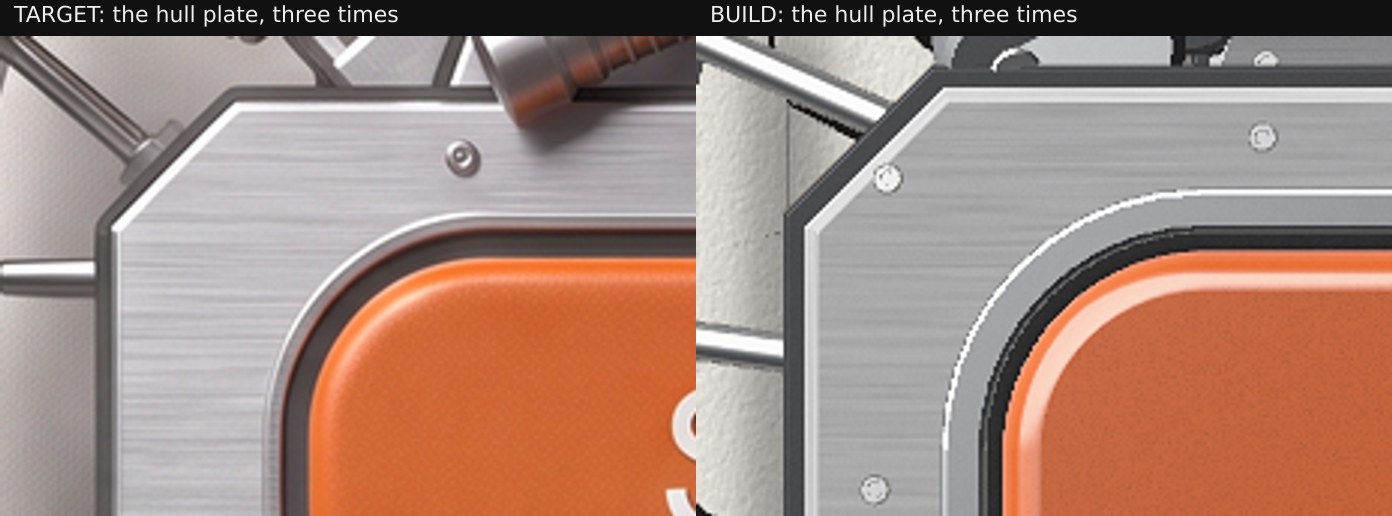
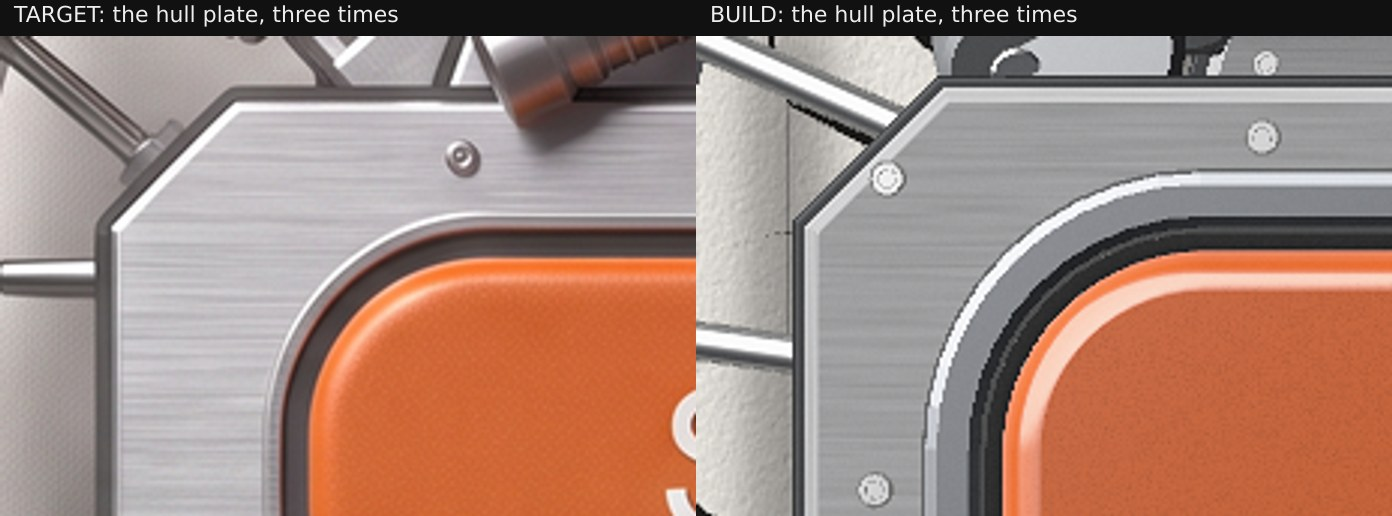
Boss look: darker bezel and legs, glowing window, fist holds the button down, three torn plates left, pale smoke, floor of light in the beam

Changed region(s): [[0.6178, 0.2171, 1.0, 1.0], [0.556, 0.124, 0.7105, 1.0], [0.7414, 0.124, 1.0, 0.155]]

diff --git a/src/boss/look1/pose.ts b/src/boss/look1/pose.ts
@@ -47,14 +47,15 @@ export const WALK = { pitch: 40, band: 0.14, lift: 38, bob: 5 }
 // The fall when he is beaten, as shares of boss.beaten: the cannon leaves, the glass bursts, the body drops on its belly.
 export const FALL = { off: [0, 0.4], glass: [0.05, 0.3], drop: [0.3, 0.7] } as const
 // The finishing blast, as shares of boss.gone: when each part leaves, when the hull comes apart, when the bare button comes down on the ground, when the last pieces land.
-export const GONE = { shield: [0.02, 0.6], wings: [[0.08, 0.7], [0.14, 0.76]], guns: [[0.05, 0.65], [0.1, 0.7]], legs: [[0.2, 0.8], [0.26, 0.86], [0.3, 0.9], [0.36, 0.96]], bay: [0.22, 0.8], hull: [0.28, 0.98], plate: [0.03, 0.5], button: [0.5, 0.9], left: [0.4, 0.92] } as const
+export const GONE = { shield: [0.02, 0.6], wings: [[0.08, 0.7], [0.14, 0.76]], guns: [[0.05, 0.65], [0.1, 0.7]], legs: [[0.2, 0.8], [0.26, 0.86], [0.3, 0.9], [0.36, 0.96]], bay: [0.22, 0.8], hull: [0.28, 0.98], plate: [0.03, 0.5], button: [0.5, 0.9], left: [0.4, 0.92], land: [[0.44, 0.92], [0.5, 0.93], [0.56, 0.95]] } as const
 // How a piece leaves in the blast, in model units: far down the beam, wide to its own side, up from the ground.
 export const FLY = { far: 2700, wide: 1100, least: 0.6, high: 120, burst: [400, 250] }
-// Where the button lies when all else is gone (the fight's FALLEN), level on the page; and what lies about it, page px from its middle: a claw, a bent plate, two bolts.
-export const LEFT = { x: 960, y: 650, slide: [0.02, 0.62], lie: [[-76, 150, 2.5], [150, 72, -0.5], [-78, -104, 0.9], [48, 154, 2.2]] } as const
-// The fist's blow on the button that is left: it goes down in `down` seconds and springs back by `back` to `rest` (0 is all the way up, 1 stays down); `deep` is in model units, `squash` a share of its size.
-export const PRESS = { down: 0.07, back: 0.45, deep: 9, squash: 0.045, rest: 0 }
-// The face of the word as in the approved pictures: lighter and a little smaller than the page's own button (inter-600 at 26 px).
+// Where the button lies when all else is gone (the fight's FALLEN), level on the page; and what lies about it, page px from its middle: a claw, a bent plate, two bolts, and three torn pieces of the hull (which piece, where, its turn), `small` of their size.
+export const LEFT = { x: 960, y: 650, slide: [0.02, 0.92], lie: [[-76, 150, 2.5], [150, 72, -0.5], [-78, -104, 0.9], [-24, 116, 2.2]], plates: [[1, 66, -118, 0.5], [3, 214, -34, -0.9], [5, 112, 168, 1.4]], small: 0.62 } as const
+// The fist on the button that is left: it goes down in `down` seconds and stays down while the fist is on it; when the fist leaves it springs back in `back` seconds with a small overshoot. `deep` is in model units, `squash` a share of its size.
+export const PRESS = { down: 0.07, back: 0.38, deep: 9, squash: 0.045 }
+// The floor of light his parts keep inside the beam, as a share of their own colour: a tilted plate stays light grey.
+export const BEAMLIT = 0.34
 export const WORD = { font: 'inter-400', px: 25 }
 export const BENT = { yaw: 0.26, droop: 0.2 }
 export const TIMES = { form: 2.9, turret: 1.6, beaten: 1, gone: 2.13, gunKick: 0.25, glance: 0.3, hit: 0.35, heal: 0.6, beam: 0.3, recoil: 0.45, after: 1.2, weak: 1.2 }
@@ -90,7 +91,10 @@ export interface Pose {
   away: { shield: number; wings: [number, number]; guns: [number, number]; legs: [number, number, number, number]; bay: number; hull: number; plates: number[] }
   // The pieces that stay: 0 in the body, 1 lying where they are left.
   left: number
-  // 0 to 1: how far the button is down under the fist; a little below 0 on the spring back.
+  // The three pieces of the hull that stay: 0 on the body, 1 lying flat where they are left. And how much of the beam's light is on his parts, 0 to 1.
+  landed: number[]
+  lit: number
+  // 0 to 1: how far the button is down under the fist; a little below 0 on the spring back when the fist leaves.
   press: number
   blow: [number, number]
   // The middle of the word on the button, page px and height, and the turn of the button on the page.
@@ -162,8 +166,8 @@ export function poseOf(view: BossView, o: LookOptions = DEFAULTS): Pose {
   const f = clamp01(b.form)
   const t = clamp01(b.turret)
   const beaten = clamp01(b.beaten)
-  // Beaten, he is thrown to where the button will lie, and turned level: the blast is aimed there.
-  const slide = prog(beaten, LEFT.slide[0], LEFT.slide[1])
+  // Beaten, he is thrown to where the button will lie and skids to rest there, turned level: the blast is aimed there.
+  const slide = outCubic(lin(beaten, LEFT.slide[0], LEFT.slide[1]))
   const turn = Math.atan2(Math.sin(Math.PI - b.heading), Math.cos(Math.PI - b.heading))
   const yaw = -b.heading - turn * slide
   const wx = mix(b.x, LEFT.x, slide) - 960
@@ -248,8 +252,11 @@ export function poseOf(view: BossView, o: LookOptions = DEFAULTS): Pose {
     const down = lin(gone, GONE.button[0], GONE.button[1])
     buttonZ = mix(buttonZ, -body.z, down * down) 
   }
-  const pressAge = since(now, b.pressedAt ?? null)
-  const fist = pressAge < 0 ? 0 : pressAge < PRESS.down ? pressAge / PRESS.down : 1 - (1 - PRESS.rest) * outBack(lin(pressAge, PRESS.down, PRESS.back), 2.4)
+  // The fist is on the button from boss.pressedAt for as long as that is set; boss.releasedAt, if the view carries it, is the moment the fist leaves.
+  const upAt = (b as { releasedAt?: number | null }).releasedAt ?? null
+  const downAge = since(now, b.pressedAt ?? null)
+  const upAge = since(now, upAt)
+  const fist = downAge < 0 ? 0 : upAge >= 0 ? 1 - outBack(lin(upAge, 0, PRESS.back), 2.4) : clamp01(downAge / PRESS.down)
   buttonZ -= PRESS.deep * fist
   const span = (r: readonly [number, number]): number => lin(gone, r[0], r[1])
   const away = {
@@ -319,7 +326,7 @@ export function poseOf(view: BossView, o: LookOptions = DEFAULTS): Pose {
     guns, legs, cannon,
     weak: b.weak ? (b.weak.shownAt === null ? 0 : 2.2 + 3 * (0.5 + 0.5 * Math.sin((now - b.weak.shownAt) * 16))) : 0,
     weakOpen: b.weak && b.weak.shownAt !== null && beaten <= 0 ? smooth(lin(now - b.weak.shownAt, 0, 0.18)) : 0,
-    damage: f < 1 ? 0 : beaten > 0.02 ? 3 : b.stage, hurt, heal: healNow, sag: sagPart, gone, away, left: span(GONE.left), press: fist, blow, lockAge, word
+    damage: f < 1 ? 0 : beaten > 0.02 ? 3 : b.stage, hurt, heal: healNow, sag: sagPart, gone, away, left: span(GONE.left), landed: GONE.land.map((r) => span(r)), lit: gone > 0 && gone < 1 ? smooth(lin(gone, 0, 0.06)) * (1 - smooth(lin(gone, 0.9, 1))) : 0, press: fist, blow, lockAge, word
   }
 }
 

diff --git a/src/boss/look1/model.ts b/src/boss/look1/model.ts
@@ -53,18 +53,18 @@ const screwsAt = (at: [number, number][], z: number, r = 6.5, seed = 1): THREE.B
 
 function hullGeo(): { plate: THREE.BufferGeometry; dark: THREE.BufferGeometry; trim: THREE.BufferGeometry; bed: THREE.BufferGeometry; pins: THREE.BufferGeometry; joints: THREE.BufferGeometry } {
   const { hx, hy, c, top, tall, belly } = HULL
-  const bezelOut = pillOutline(BTN.w + 40, BTN.h + 40, BTN.r + 18)
+  const bezelOut = pillOutline(BTN.w + 52, BTN.h + 52, BTN.r + 24)
   const bezelIn = pillOutline(BTN.w + 12, BTN.h + 12, BTN.r + 5)
   const plate = chamfer(oct(hx, hy, c), top - tall, top, 5, 5)
   const dark = joined([
-    plateAt(oct(hx + 7, hy + 7, c + 3), top - tall - 3, top - 6, 2),
+    plateAt(oct(hx + 4, hy + 4, c + 2), top - tall - 3, top - 6, 2),
     plateAt(oct(hx - 16, hy - 14, c - 6), belly, top - tall + 1, 5),
     plateAt(oct(hx - 60, hy - 40, 20), belly - 22, belly + 1, 5)
   ])
-  const trim = ringPlate(bezelOut, bezelIn, 7, 2.2).translate(0, 0, top - 0.5)
+  const trim = ringPlate(bezelOut, bezelIn, 8, 5).translate(0, 0, top - 0.5)
   const bed = plateAt(pillOutline(BTN.w + 14, BTN.h + 14, BTN.r + 6), top - 0.4, top + 2, 0.5)
   const sc: [number, number][] = [[-268, -98], [268, -98], [-268, 98], [268, 98], [-150, -111], [150, -111], [-150, 111], [150, 111], [0, -111], [0, 111], [-272, 0], [272, 0]]
-  const pins = screwsAt(sc, top, 4.8, 3)
+  const pins = screwsAt(sc, top, 5.8, 3)
   const joints = joined(HIPS.map(([x, y]) => discAt(30, x * 1.0, y * 0.92, LEG.hipZ - 26, LEG.hipZ + 24, 4)))
   return { plate, dark, trim, bed, pins, joints }
 }
@@ -117,11 +117,11 @@ function legGeo(): { upper: Record<string, THREE.BufferGeometry>; lower: Record<
     }
   }
   const upper = {
-    ...link(A, 43, 20),
+    ...link(A, 50, 22),
     orange: joined([hose([[10, -12, 6], [A * 0.3, -17, 15], [A * 0.62, 15, 15], [A - 12, 12, 6]], 4.2, 20, 7), hose([[14, 13, 4], [A * 0.3, 17, 11], [A * 0.58, -15, 11], [A - 16, -12, 4]], 3.6, 20, 7)])
   }
   const lower = {
-    ...link(B, 38, 18),
+    ...link(B, 44, 20),
     orange: joined([hose([[12, 11, 5], [B * 0.3, 15, 13], [B * 0.6, -13, 12], [B - 18, -10, 5]], 3.8, 20, 7)])
   }
   // A claw of two short thick hooks: each leaves the ankle high, turns inward at its knuckle and sinks its tip into the ground.
@@ -150,16 +150,16 @@ function cannonGeo(): Record<string, THREE.BufferGeometry> {
     boxAt(-30, -26, -22, b0 - 4, 26, 22, 5)
   ])
   const breechDark = joined([
-    ringPlate([[b0 + 109, -51], [b0 + 209, -51], [b0 + 209, 51], [b0 + 109, 51]], [[b0 + 123, -37], [b0 + 195, -37], [b0 + 195, 37], [b0 + 123, 37]], 5, 1).translate(0, 0, r.breech + 8),
+    ringPlate(pillOutline(92, 92, 16, 5).map(([x, y]) => [x + b0 + 160, y] as [number, number]), pillOutline(72, 72, 10, 5).map(([x, y]) => [x + b0 + 160, y] as [number, number]), 5, 1.5).translate(0, 0, r.breech + 8),
     along([[r.breech + 0.6, b0 + 38], [r.breech + 2.5, b0 + 40], [r.breech + 2.5, b0 + 50], [r.breech + 0.6, b0 + 52]], 40),
     along([[r.breech + 0.6, b1 - 64], [r.breech + 2.5, b1 - 62], [r.breech + 2.5, b1 - 52], [r.breech + 0.6, b1 - 50]], 40)
   ])
-  const window = new THREE.PlaneGeometry(60, 60, 10, 10).translate(b0 + 160, 0, r.breech + 11)
+  const window = new THREE.PlaneGeometry(72, 72, 12, 12).translate(b0 + 160, 0, r.breech + 11)
   {
     const pos = window.getAttribute('position')
     const col = new Float32Array(pos.count * 3)
     for (let i = 0; i < pos.count; i++) {
-      const d = Math.min(1, Math.hypot(pos.getX(i) - b0 - 160, pos.getY(i)) / 40)
+      const d = Math.min(1, Math.hypot(pos.getX(i) - b0 - 160, pos.getY(i)) / 46)
       const k = (1 - d * d) * (1 - d * d)
       col.set([0.5 + 2.2 * k, 0.4 + 4.6 * k, 0.3 + 16 * k], i * 3)
     }
@@ -327,7 +327,7 @@ export function buildModel(): Model {
   heat.depthWrite = false
   root.add(mesh(cg, kit.steel), mesh(c('breechDark'), kit.bed), mesh(c('window'), window, false, false), mesh(c('slit'), slits, false, false), mesh(c('yoke'), kit.joint), mesh(c('hoses'), kit.orange))
   const ribs = new THREE.Group()
-  ribs.add(mesh(c('ribCore'), kit.dark), mesh(c('ribs'), kit.orange))
+  ribs.add(mesh(c('ribCore'), kit.steel), mesh(c('ribs'), kit.orange))
   const sleeve = new THREE.Group()
   sleeve.add(mesh(c('sleeve'), kit.steel))
   const barrel = new THREE.Group()

diff --git a/src/boss/look1/index.ts b/src/boss/look1/index.ts
@@ -3,9 +3,9 @@ import type { BossView } from '../view'
 import type { Emitter } from '../../real/types'
 import { buildModel, type Model } from './model'
 import { CANNON, GUN, HATCH, SHIELD, WING, HULL } from './numbers'
-import { BENT, DEFAULTS, FLY, K, LEFT, clamp01, poseOf, type LookOptions, type Pose } from './pose'
+import { BEAMLIT, BENT, DEFAULTS, FLY, K, LEFT, clamp01, poseOf, type LookOptions, type Pose } from './pose'
 import { hash01 } from '../../core/random'
-import { setGlow } from './kit'
+import { lookKit, setGlow } from './kit'
 import { makeFx, type Fx } from './fx'
 import { poseGun } from './gun'
 import { makeShade } from './shade'
@@ -152,6 +152,24 @@ function apply(m: Model, legsRoot: THREE.Group, p: Pose): void {
         q.g.visible = true
         q.g.position.set(q.at[0] + p.hull.x, q.at[1] + p.hull.y, q.at[2] + p.hull.z)
         q.g.rotation.set(0, 0, 0)
+        q.g.scale.setScalar(1)
+        q.g.children[1]!.visible = true
+        const stay = LEFT.plates.findIndex((l) => l[0] === i)
+        if (stay >= 0) {
+          const lie = LEFT.plates[stay]!
+          const u = p.landed[stay]!
+          const e = 1 - (1 - u) * (1 - u)
+          const tx = (lie[1] * cyaw + lie[2] * syaw) / K
+          const ty = (lie[1] * syaw - lie[2] * cyaw) / K
+          const h = (n: number): number => hash01(40 + i, n, 77) - 0.5
+          q.g.children[1]!.visible = u <= 0
+          q.g.position.x += (tx - q.at[0]) * e
+          q.g.position.y += (ty - q.at[1]) * e
+          q.g.position.z += (HULL.tall / 2 + 1 - p.body.z - q.g.position.z) * e + 260 * 4 * u * (1 - u) * (1 - u)
+          q.g.rotation.set(h(3) * 9 * (1 - e), h(4) * 8 * (1 - e), (lie[3] - p.body.yaw) * e + h(5) * 5 * (1 - e) * e)
+          q.g.scale.setScalar(1 - (1 - LEFT.small) * e)
+          return
+        }
         const k = p.away.plates[i]!
         const jump = 1 - Math.pow(1 - Math.min(1, k * 3), 3)
         const d = Math.hypot(q.at[0], q.at[1]) || 1
@@ -218,6 +236,8 @@ export function makeBoss(ctx: BossLookContext = {}): BossLook {
   for (const g of [model.hull, model.bay, model.hatch, model.shield, ...model.wings, model.cannon.barrel, ...model.legs.flatMap((l) => [l.upper, l.lower, l.foot])]) g.traverse((c) => { c.castShadow = false })
   model.button.traverse((c) => { c.castShadow = true })
   object.add(figure)
+  const kit = lookKit()
+  const lit = [kit.hull, kit.wing, kit.hatch, kit.bezel, kit.steel, kit.gunBody, kit.gunBase, kit.plateLight, kit.limb, kit.dark, kit.joint, kit.pin, kit.plate]
   const fx: Fx = makeFx(o, ctx.level ?? null)
   object.add(fx.object)
   const pose = (view: BossView, _dt: number, light?: (e: Emitter) => void): void => {
@@ -225,6 +245,7 @@ export function makeBoss(ctx: BossLookContext = {}): BossLook {
     figure.visible = p.shown
     figure.position.set(p.x, p.y, 0)
     if (p.shown) { apply(model, figure, p); shade.pose(p) }
+    for (const mat of lit) mat.emissive.copy(mat.color).multiplyScalar(p.shown ? BEAMLIT * p.lit : 0)
     fx.pose(view, p, light)
   }
   const dispose = (): void => {

diff --git a/src/boss/look1/fx.ts b/src/boss/look1/fx.ts
@@ -205,13 +205,13 @@ export function makeFx(o: LookOptions, level0: Level): Fx {
   ground.add(socket)
   const hx = o.home.x - 960
   const hy = 540 - o.home.y
-  const landCracks = mesh(crackStar(o.seed + 2, 12, (a) => [Math.cos(a) * 96, Math.sin(a) * 52], 120, 2.2), kit.crack, false, false)
+  const landCracks = mesh(crackStar(o.seed + 2, 10, (a) => [Math.cos(a) * 70, Math.sin(a) * 34], 44, 2), kit.crack, false, false)
   landCracks.position.set(hx, hy, 0.25)
   ground.add(landCracks)
   const footCracks = FEET.map(([fx, fy], i) => {
     const c = Math.cos(-o.home.heading)
     const s = Math.sin(-o.home.heading)
-    const m = mesh(crackStar(o.seed + 10 + i, 9, (a) => [Math.cos(a) * 15, Math.sin(a) * 15], 54, 1.3), kit.crack, false, false)
+    const m = mesh(crackStar(o.seed + 10 + i, 9, (a) => [Math.cos(a) * 15, Math.sin(a) * 15], 42, 1.9), kit.crack, false, false)
     m.position.set(hx + (fx * c - fy * s) * K, hy + (fx * s + fy * c) * K, 0.25)
     ground.add(m)
     return m
@@ -566,7 +566,7 @@ export function makeFx(o: LookOptions, level0: Level): Fx {
       const count = n.chunks * 3
       const [ux, uy] = p.blow
       for (let i = 0; i < count; i++) {
-        const a = age - (0.03 + 0.85 * (i / count)) * TIMES.gone
+        const a = age - (0.03 + 0.9 * (i / count)) * TIMES.gone
         if (a < 0 || a >= SCRAP.life) continue
         const u = a / SCRAP.life
         const side = (rnd(i, 81) < 0.5 ? -1 : 1) * (0.3 + 0.9 * rnd(i, 82))
@@ -580,10 +580,10 @@ export function makeFx(o: LookOptions, level0: Level): Fx {
       const rise = smooth(lin(p.gone, GONE.button[1], 1))
       const sx3 = p.x + 22
       const sy3 = p.y + 14
-      plume(sx3, sy3, 30, now, 0.1, 3.6, 41, 26, SMOKE, 0.36 * rise, 8, 36)
-      plume(sx3 - 26, sy3 + 4, 30, now + 0.7, 0.17, 2.8, 42, 18, SMOKE, 0.3 * rise, 3, 30)
+      plume(sx3, sy3, 30, now, 0.07, 3.8, 41, 20, STEAM, 0.5 * rise, 9, 36)
+      plume(sx3 - 22, sy3 + 2, 30, now + 0.7, 0.11, 3.2, 42, 15, STEAM, 0.38 * rise, 5, 32)
       const lie = LEFT.lie[0]
-      plume(p.x + lie[0], p.y - lie[1], 20, now + 0.3, 0.3, 1.8, 43, 11, SMOKE, 0.3 * rise, 4, 20)
+      plume(p.x + lie[0], p.y - lie[1], 20, now + 0.3, 0.2, 2, 43, 10, STEAM, 0.3 * rise, 4, 22)
     }
 
     // Beaten: the cannon is blown off, the glass bursts, he smokes.

diff --git a/src/boss/look1/kit.ts b/src/boss/look1/kit.ts
@@ -291,19 +291,19 @@ export function lookKit(): LookKit {
   if (look) return look
   const b = bossKit()
   const m = materials()
-  const plateLight = new THREE.MeshPhysicalMaterial({ color: srgb(0x84888d), roughness: 0.56, metalness: 0.3, specularIntensity: 0.5 })
+  const plateLight = new THREE.MeshPhysicalMaterial({ color: srgb(0x6e7277), roughness: 0.54, metalness: 0.35, specularIntensity: 0.5 })
   const brushed = (hex: number, metal: number, rough = 0.46): THREE.MeshPhysicalMaterial => { const c = b.plate.clone(); c.color = srgb(hex); c.metalness = metal; c.roughness = rough; return studio(c) }
   look = {
-    hull: brushed(0xa8abaf, 0.35, 0.52),
+    hull: brushed(0x9c9fa3, 0.35, 0.52),
     wing: brushed(0x8f9296, 0.3, 0.55),
     hatch: brushed(0x8a8e94, 0.6, 0.44),
-    bezel: studio(new THREE.MeshPhysicalMaterial({ color: srgb(0x8d9196), roughness: 0.26, metalness: 0.8 })),
+    bezel: studio(new THREE.MeshPhysicalMaterial({ color: srgb(0x70747a), roughness: 0.3, metalness: 0.85 })),
     steel: studio(new THREE.MeshPhysicalMaterial({ color: srgb(0xaeb1b5), roughness: 0.46, metalness: 0.5, specularIntensity: 0.6 })),
     gunBody: studio(new THREE.MeshPhysicalMaterial({ color: srgb(0x90949a), roughness: 0.5, metalness: 0.45, specularIntensity: 0.6 })),
     gunBase: studio(new THREE.MeshPhysicalMaterial({ color: srgb(0xb4b7bb), roughness: 0.42, metalness: 0.5, specularIntensity: 0.6 })),
     plate: b.plate,
     plateLight: studio(plateLight),
-    limb: studio(new THREE.MeshPhysicalMaterial({ color: srgb(0x9a9ea3), roughness: 0.5, metalness: 0.55, specularIntensity: 0.6 })),
+    limb: studio(new THREE.MeshPhysicalMaterial({ color: srgb(0x868a8f), roughness: 0.5, metalness: 0.55, specularIntensity: 0.6 })),
     dark: b.plateSide,
     housing: b.housing,
     joint: b.joint,

diff --git a/tests/bosslook-pose.test.ts b/tests/bosslook-pose.test.ts
@@ -179,17 +179,20 @@ describe('look 1: the finishing blast', () => {
     expect(Math.cos(at.rot)).toBeCloseTo(1, 5)
   })
 
-  it('sinks the button under the fist in 0.07 s and has it back by 0.45 s', () => {
+  it('keeps the button down while the fist is on it and springs it back only when the fist leaves', () => {
     const lying = { turret: 1, locked: true, stage: 2 as const, health: 0, beaten: 1, gone: 1 }
-    const at = (age: number): ReturnType<typeof buttonAt> => buttonAt(view({ phase: 'beaten', time: 60 + age }, { ...lying, pressedAt: 60 }))
+    const at = (age: number, more: object = {}): ReturnType<typeof buttonAt> => buttonAt(view({ phase: 'beaten', time: 60 + age }, { ...lying, pressedAt: 60, ...more }))
     expect(buttonAt(view({ phase: 'beaten', time: 59.9 }, { ...lying, pressedAt: null })).press).toBe(0)
     expect(at(0).press).toBe(0)
     expect(at(PRESS.down).press).toBeCloseTo(1, 5)
     expect(at(PRESS.down).top).toBeLessThan(at(0).top)
     expect(at(PRESS.down).w).toBeLessThan(at(0).w)
-    expect(at(PRESS.back).press).toBeCloseTo(0, 5)
-    expect(at(2).press).toBeCloseTo(0, 5)
-    expect(at(2).top).toBeCloseTo(at(0).top, 5)
+    for (const age of [0.2, 0.45, 2, 30]) expect(at(age).press, `${age}`).toBe(1)
+    const left = { releasedAt: 61 }
+    expect(at(0.9, left).press).toBe(1)
+    expect(at(1 + PRESS.back * 0.6, left).press).toBeLessThan(0)
+    expect(at(1 + PRESS.back, left).press).toBeCloseTo(0, 5)
+    expect(at(4, left).top).toBeCloseTo(at(0).top, 5)
     for (const name of ['boss-fall', 'finish-fire', 'boss-gone', 'button-down']) expect(EVENTS, name).toHaveProperty(name)
   })
 })
